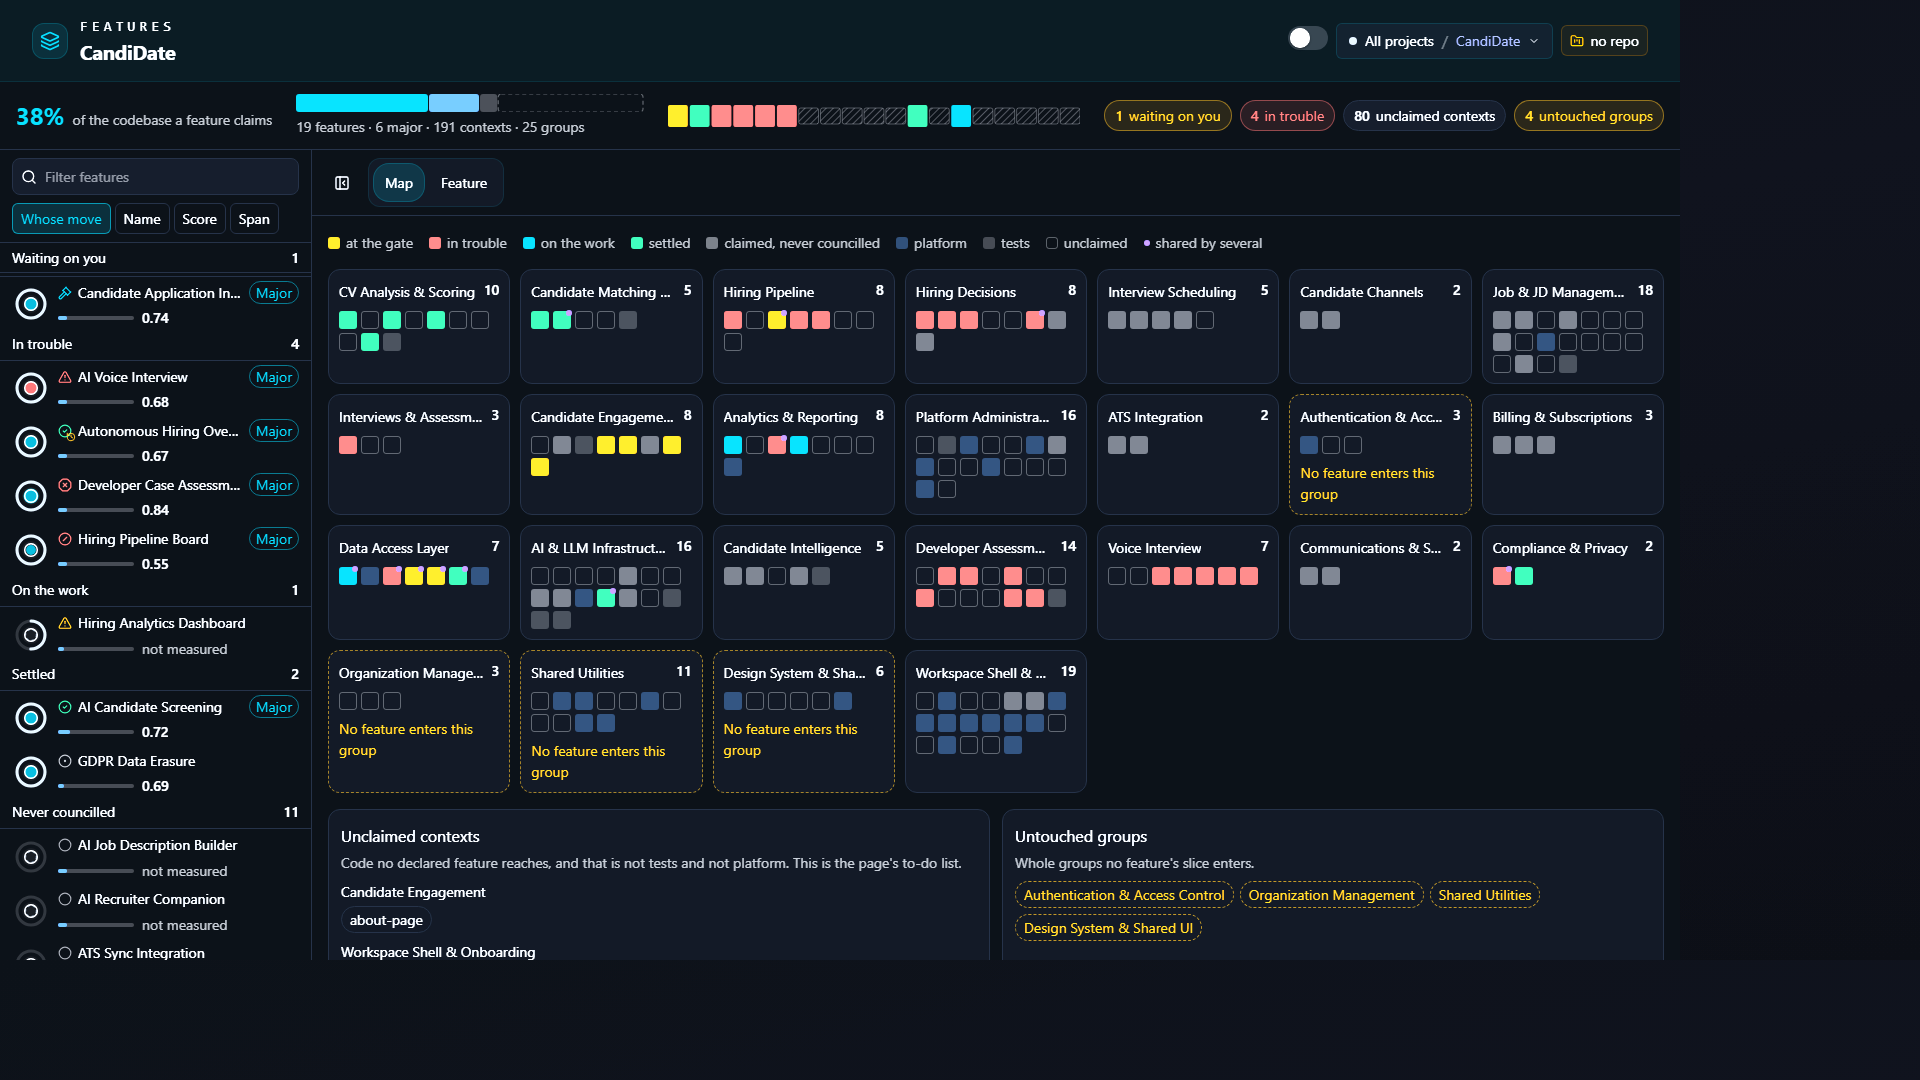
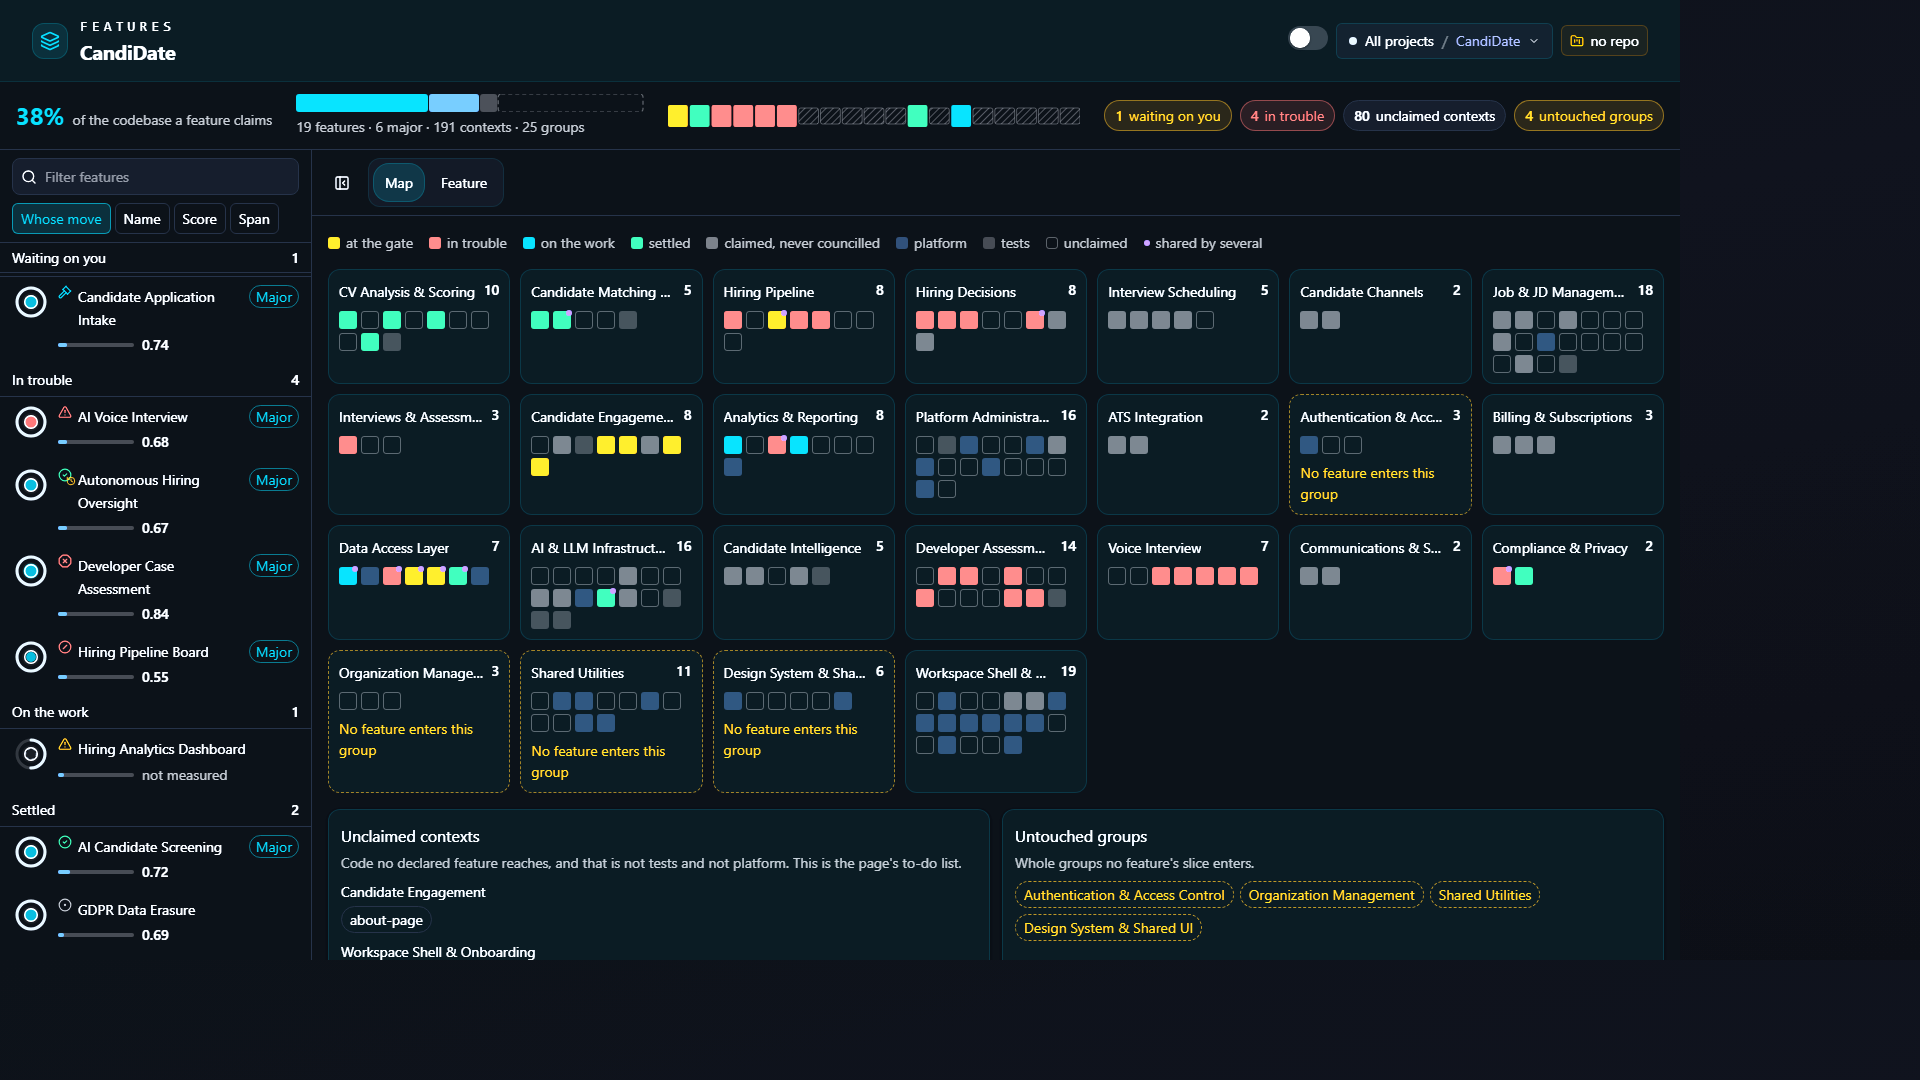
fix(features): the rating panel is one band of figures, and a row name gets two lines
Director review, both fixes, re-shot and looked at.

THE RATING PANEL was cramped because `size` on the rose is its WHOLE BOX and
it reserves ~26% of that on each side for the five wedge labels - so the
172px rose drew an 80px disc and 'Economics 0.71' floated around nothing.
It is now sized the way the round table sizes it (200-300, scaled to the
panel), which draws a disc of ~138px at 1040 wide and ~188px at 1680. The
overall lives in the rose's HUB, inside the ring that is the threshold, so
the number and the bar it is read against are one figure instead of two
things side by side; 'Overall against 0.70' sits under it. The coverage
ring is 72px - smaller than the rose, beside it - and the round history
beside that, elastic so the three stay on ONE band: at 1040 they overran
696px and the history wrapped to its own row, which is what made the panel
read as strewn numbers. Member bars with their floor ticks stay below.

THE HEADER is one row again: name, kind and state chip on the left, the
tier toggle and the ONE action on the right. It is `flex-nowrap` with only
the LEFT group allowed to wrap internally, so a long name never pushes the
action onto a second line - which is what it did at 1040.

THE COLUMN's names wrap to two lines before clipping (`line-clamp-2`), with
the tooltip still carrying the rare third. That makes rows variable-height,
so `measureElement` is wired back up.

AND THE BUG THAT CAME WITH IT, found by asserting rather than trusting: the
[…]

Changed region(s): [[0.0, 0.2444, 0.1562, 0.8861], [0.125, 0.4889, 0.1562, 0.55]]

diff --git a/src/features/teams/sub_features/feature/RatingPanel.tsx b/src/features/teams/sub_features/feature/RatingPanel.tsx
@@ -1,9 +1,10 @@
 // The rating, drawn: the rose, the overall against its bar, the coverage ring
 // and the rounds. Every figure is the Council page's own - one rose in the app,
 // not two.
-import { useMemo } from 'react';
+import { useMemo, useRef } from 'react';
 
 import { Numeric } from '@/features/shared/components/display/Numeric';
+import { useElementSize } from '@/features/teams/sub_council/table/useElementSize';
 import { CoverageRing } from '@/features/teams/sub_council/table/svg/CoverageRing';
 import { RoundHistory, type RoundPoint } from '@/features/teams/sub_council/table/svg/RoundHistory';
 import { Rose } from '@/features/teams/sub_council/table/svg/Rose';
@@ -50,6 +51,8 @@ function toSeat(v: BoardFeature['verdicts'][number]): Seat {
 }
 
 export function RatingPanel({ feature, t, tx, language }: RatingPanelProps) {
+  const panelRef = useRef<HTMLDivElement>(null);
+  const { width } = useElementSize(panelRef);
   const council = feature.council;
   const seats = useMemo(() => feature.verdicts.map(toSeat), [feature.verdicts]);
   const points: RoundPoint[] = feature.history.map((h) => ({
@@ -60,49 +63,75 @@ export function RatingPanel({ feature, t, tx, language }: RatingPanelProps) {
   const overall = council?.overall ?? null;
   const coverage = council?.coverage ?? null;
   const thresholdText = formatNumeric(FEATURE_THRESHOLD, 'plain', { language, precision: 2 });
+  const coverageFloorText = formatNumeric(FEATURE_COVERAGE_FLOOR, 'ratio', { language, precision: 0 });
+
+  /* `size` is the rose's WHOLE BOX, and it reserves ~26% of it on each side
+     for the five wedge labels - so a 172px rose draws a 80px disc and the
+     labels float around nothing, which is what the first build shipped. The
+     round table sizes it 150-300 for the same reason; this panel is wider, so
+     it starts higher and still gives way rather than overflowing. */
+  const roseSize = width === 0 ? 250 : Math.max(200, Math.min(300, Math.round(width * 0.36)));
+  /* The three figures are ONE band or they are strewn: at 1040 the rose, the
+     coverage ring and the rounds together overran 696px and the history
+     wrapped to its own row, which is what made the panel read as loose
+     numbers. The history is the elastic one, so it gives way. */
+  const historyWidth = width === 0 ? 236 : Math.max(170, Math.min(236, width - roseSize - 220));
 
   return (
-    <section className="rounded-card border border-border bg-secondary/30 p-4" data-testid="features-rating">
-      <div className="flex flex-wrap items-start gap-6">
-        <div className="flex items-baseline gap-2">
-          <span className="typo-data-lg text-foreground" data-testid="features-overall">
-            {overall == null ? t.not_measured : <Numeric value={overall} precision={2} />}
-          </span>
-          <span className="typo-caption">{tx(t.threshold_label, { threshold: thresholdText })}</span>
-        </div>
-
+    <section className="rounded-card border border-primary/15 bg-primary/5 shadow-elevation-1 p-4" data-testid="features-rating">
+      <div ref={panelRef} className="flex flex-wrap items-center gap-x-6 gap-y-6">
         {seats.length > 0 ? (
-          <Rose
-            seats={seats}
-            threshold={FEATURE_THRESHOLD}
-            overall={overall}
-            size={172}
-            label={t.rose_label}
-            notMeasuredLabel={t.not_measured}
-            noOverallLabel={t.no_overall}
-            overallLabel={t.rose_overall}
-          />
-        ) : null}
+          /* The overall lives in the rose's hub, against the ring that IS the
+             threshold - so the number and the bar it is read against are one
+             figure rather than two things side by side. */
+          <div className="flex flex-col items-center gap-1">
+            <Rose
+              seats={seats}
+              threshold={FEATURE_THRESHOLD}
+              overall={overall}
+              size={roseSize}
+              label={t.rose_label}
+              notMeasuredLabel={t.not_measured}
+              noOverallLabel={t.no_overall}
+              overallLabel={t.rose_overall}
+            />
+            <p className="m-0 typo-caption" data-testid="features-overall">
+              {t.overall_label} {tx(t.threshold_label, { threshold: thresholdText })}
+            </p>
+          </div>
+        ) : (
+          <div className="flex items-baseline gap-2">
+            <span className="typo-data-lg text-foreground" data-testid="features-overall">
+              {overall == null ? t.not_measured : <Numeric value={overall} precision={2} />}
+            </span>
+            <span className="typo-caption">{tx(t.threshold_label, { threshold: thresholdText })}</span>
+          </div>
+        )}
 
         {coverage != null ? (
-          <div className="flex flex-col items-center gap-1">
+          <div className="flex items-center gap-2.5">
             <CoverageRing
               coverage={coverage}
               floor={FEATURE_COVERAGE_FLOOR}
+              size={72}
               label={tx(t.coverage_figure_label, {
                 value: formatNumeric(coverage, 'ratio', { language, precision: 0 }),
-                floor: formatNumeric(FEATURE_COVERAGE_FLOOR, 'ratio', { language, precision: 0 }),
+                floor: coverageFloorText,
               })}
               text={formatNumeric(coverage, 'ratio', { language, precision: 0 })}
             />
-            <span className="typo-caption">{t.coverage_label}</span>
+            <span className="typo-caption">
+              <b className="block typo-heading text-foreground">{t.coverage_label}</b>
+              {tx(t.threshold_label, { threshold: coverageFloorText })}
+            </span>
           </div>
         ) : null}
 
         {points.length > 0 ? (
-          <div className="flex flex-col items-center gap-1">
+          <div className="flex flex-col items-start gap-1">
             <RoundHistory
               points={points}
+              width={historyWidth}
               threshold={FEATURE_THRESHOLD}
               currentRound={council?.roundNo ?? points.length}
               label={t.rounds_label}

diff --git a/src/features/teams/sub_features/column/FeatureColumn.tsx b/src/features/teams/sub_features/column/FeatureColumn.tsx
@@ -5,7 +5,7 @@
 // so a hundred real DOM rows would be paid for on every one of those renders.
 // Group headings are items in the same flat list and one of them is pinned via
 // the range extractor, which is how a sticky heading survives virtualisation.
-import { useCallback, useEffect, useMemo, useRef } from 'react';
+import { useCallback, useMemo, useRef } from 'react';
 import { useVirtualizer } from '@tanstack/react-virtual';
 import { Search } from 'lucide-react';
 
@@ -18,10 +18,11 @@ import { FEATURE_MOVES, sortRows, type FeatureMove, type FeatureRow, type Featur
 import { moveLabel, type TFeatures } from '../featuresModel';
 import { FeatureRowItem } from './FeatureRowItem';
 
-// Both item kinds are a FIXED height, which is why `measureElement` is not
-// wired up: dynamic measurement would put a ResizeObserver on every mounted
-// row and re-measure the list on every scroll frame, for an answer the
-// stylesheet already fixes. Change either constant if the row's geometry moves.
+// A row is one line of identity over one line of figures, but the NAME wraps
+// to two lines when it needs to, so a row is 54px or 77px and the virtualiser
+// has to measure rather than assume. These are the estimates it starts from;
+// `measureElement` corrects each mounted row, and `getItemKey` keys that
+// correction to the ITEM so a re-sort cannot hand a row a heading's height.
 const ROW_HEIGHT = 54;
 const HEADING_HEIGHT = 30;
 
@@ -94,30 +95,26 @@ export function FeatureColumn({
     },
   });
 
-  // The key change alone does not re-measure what is already cached under a key
-  // that survived; re-measuring when the item list changes identity does.
-  useEffect(() => { virtualizer.measure(); }, [items, virtualizer]);
 
   const virtualItems = virtualizer.getVirtualItems();
-  /* The band a reader is standing IN, derived from the scroll offset rather
-     than mutated inside the range extractor. An earlier version pinned the
-     heading by rendering that one virtual item `position: sticky` - which puts
-     it back in normal flow, so the item it was supposed to occupy lost its
-     slot and two rows drew on top of each other. The heading is now an OVERLAY
-     outside the virtual list, and every virtual item stays absolute. */
+  /* The band a reader is standing IN, read off the virtualiser's own MEASURED
+     offsets rather than from assumed heights (rows are not all the same height
+     any more) and rather than from a ref mutated inside the range extractor.
+     An earlier version pinned the heading by rendering that one virtual item
+     `position: sticky` - which puts it back in normal flow, so the item it was
+     supposed to occupy lost its slot and two rows drew on top of each other.
+     The heading is now an OVERLAY outside the list; every item stays absolute. */
   const offset = virtualizer.scrollOffset ?? 0;
   const standingIn = useMemo(() => {
     if (sort !== 'move') return null;
-    let seen: Extract<Item, { kind: 'heading' }> | null = null;
-    let y = 0;
-    for (const item of items) {
-      const h = item.kind === 'heading' ? HEADING_HEIGHT : ROW_HEIGHT;
-      if (item.kind === 'heading' && y <= offset + 1) seen = item;
-      y += h;
-      if (y > offset + 1 && seen) break;
+    const first = virtualItems.find((v) => v.end > offset + 1) ?? virtualItems[0];
+    if (!first) return null;
+    for (let i = first.index; i >= 0; i -= 1) {
+      const item = items[i];
+      if (item?.kind === 'heading') return item;
     }
-    return seen;
-  }, [items, offset, sort]);
+    return null;
+  }, [items, virtualItems, offset, sort]);
 
   const move = useCallback(
     (delta: number) => {
@@ -215,6 +212,7 @@ export function FeatureColumn({
               return (
                 <div
                   key={v.key}
+                  ref={virtualizer.measureElement}
                   data-index={v.index}
                   style={{ position: 'absolute', top: 0, left: 0, width: '100%', transform: `translateY(${v.start}px)` }}
                 >

diff --git a/src/features/teams/sub_features/feature/FeatureTab.tsx b/src/features/teams/sub_features/feature/FeatureTab.tsx
@@ -57,22 +57,20 @@ export function FeatureTab({
 
   return (
     <div className="flex flex-col gap-4 p-4" data-testid="features-feature-tab">
-      <header className="flex flex-wrap items-start justify-between gap-4">
-        <div className="min-w-0">
+      {/* ONE row: who it is on the left, what you can do about it on the
+          right. The description sits under it rather than between them, so the
+          tier toggle and the one action never drift apart down the panel. */}
+      <header className="flex flex-nowrap items-start justify-between gap-4">
+        <div className="flex min-w-0 flex-wrap items-center gap-x-3 gap-y-1">
           <h2 className="typo-heading-lg text-foreground">{feature.name}</h2>
-          <div className="mt-1 flex flex-wrap items-center gap-x-3 gap-y-1">
-            <span className="typo-caption">{kindLabel(feature.kind, t)}</span>
-            <span className="inline-flex items-center gap-1.5 typo-caption text-foreground">
-              <CouncilGlyph kind={row.kind} t={tDev} />
-              {councilLabel(row.kind, tDev)}
-            </span>
-          </div>
-          {feature.description ? (
-            <p className="mt-2 max-w-prose typo-body-lg">{feature.description}</p>
-          ) : null}
+          <span className="typo-caption">{kindLabel(feature.kind, t)}</span>
+          <span className="inline-flex items-center gap-1.5 rounded-pill border border-border px-2 py-0.5 typo-caption text-foreground">
+            <CouncilGlyph kind={row.kind} t={tDev} />
+            {councilLabel(row.kind, tDev)}
+          </span>
         </div>
 
-        <div className="flex flex-col items-end gap-2">
+        <div className="flex flex-none items-center gap-3 pt-0.5">
           <Tooltip content={t.tier_toggle_hint}>
             <span>
               <AccessibleToggle
@@ -84,16 +82,13 @@ export function FeatureTab({
           </Tooltip>
 
           {cta === 'open_decision' && subjectId ? (
-            <div className="flex flex-col items-end gap-1">
-              <AsyncButton
-                variant="primary"
-                data-testid="features-open-decision"
-                onClick={() => onOpenDecision(subjectId)}
-              >
-                {t.cta_open_decision}
-              </AsyncButton>
-              <span className="typo-caption">{t.cta_decision_note}</span>
-            </div>
+            <AsyncButton
+              variant="primary"
+              data-testid="features-open-decision"
+              onClick={() => onOpenDecision(subjectId)}
+            >
+              {t.cta_open_decision}
+            </AsyncButton>
           ) : null}
           {cta === 'run' || cta === 'next_round' ? (
             <AsyncButton
@@ -111,6 +106,13 @@ export function FeatureTab({
           ) : null}
         </div>
       </header>
+
+      {feature.description ? (
+        <p className="-mt-1 max-w-prose typo-body-lg">{feature.description}</p>
+      ) : null}
+      {cta === 'open_decision' ? (
+        <p className="-mt-3 typo-caption">{t.cta_decision_note}</p>
+      ) : null}
 
       <RatingPanel feature={feature} t={t} tx={tx} language={language} />
 

diff --git a/src/features/teams/sub_features/column/FeatureRowItem.tsx b/src/features/teams/sub_features/column/FeatureRowItem.tsx
@@ -50,7 +50,7 @@ export function FeatureRowItem({
       data-feature-slug={feature.slug}
       onClick={() => onSelect(feature.id)}
       onDoubleClick={() => onOpen(feature.id)}
-      className={`flex w-full items-center gap-2.5 border-l-2 px-3 py-2 text-left focus-ring ${
+      className={`flex w-full items-start gap-2.5 border-l-2 px-3 py-2 text-left focus-ring ${
         selected
           ? 'border-l-primary bg-primary/10'
           : 'border-l-transparent hover:bg-secondary/50'
@@ -65,10 +65,15 @@ export function FeatureRowItem({
         label={tx(t.row_label, { name: feature.name, state: stateName })}
       />
       <span className="min-w-0 flex-1">
-        <span className="flex items-center gap-1.5">
+        <span className="flex items-start gap-1.5">
           <CouncilGlyph kind={row.kind} t={tDev} />
+          {/* At ~300px the row has room for two lines, and a truncated name
+              is the one thing a reader cannot recover from a glance. It wraps
+              to two and only then clips; the tooltip carries the rare third. */}
           <Tooltip content={feature.name}>
-            <span className="min-w-0 flex-1 truncate typo-body text-foreground">{feature.name}</span>
+            <span className="line-clamp-2 min-w-0 flex-1 break-words typo-body text-foreground">
+              {feature.name}
+            </span>
           </Tooltip>
           {feature.tier === 'major' ? (
             <Tooltip content={t.tier_major}>

diff --git a/src/features/teams/sub_features/FeaturesPage.tsx b/src/features/teams/sub_features/FeaturesPage.tsx
@@ -244,7 +244,7 @@ export default function FeaturesPage() {
           ) : loading && !board ? (
             /* A calm ghost UNDER the chrome, never a spinner for a surface. */
             <div className="flex-1 p-4" aria-hidden="true" data-testid="features-ghost">
-              <div className="h-full rounded-card border border-border bg-secondary/30 bg-secondary/25" />
+              <div className="h-full rounded-card border border-primary/15 bg-primary/5 shadow-elevation-1 bg-secondary/25" />
             </div>
           ) : board?.neverScanned ? (
             <div className="flex flex-1 items-center justify-center p-6">

diff --git a/src/features/teams/sub_features/feature/HistoryPanel.tsx b/src/features/teams/sub_features/feature/HistoryPanel.tsx
@@ -15,7 +15,7 @@ export interface HistoryPanelProps {
 export function HistoryPanel({ feature, t, tx }: HistoryPanelProps) {
   const council = feature.council;
   return (
-    <section className="rounded-card border border-border bg-secondary/30 p-4" data-testid="features-history">
+    <section className="rounded-card border border-primary/15 bg-primary/5 shadow-elevation-1 p-4" data-testid="features-history">
       <h3 className="typo-body-lg text-foreground">{t.history_title}</h3>
       {feature.history.length === 0 ? (
         <p className="mt-1 typo-caption">{t.history_none}</p>

diff --git a/src/features/teams/sub_features/scenarios/ScenarioCell.tsx b/src/features/teams/sub_features/scenarios/ScenarioCell.tsx
@@ -46,7 +46,7 @@ export function ScenarioCell({ scenario, onEdit, onDelete, t, tx, language }: Sc
     <article
       data-testid="features-scenario-cell"
       data-scenario-scope={scenario.scope}
-      className="flex flex-col gap-2 rounded-card border border-border bg-secondary/30 p-3"
+      className="flex flex-col gap-2 rounded-card border border-primary/15 bg-primary/5 shadow-elevation-1 p-3"
     >
       <div className="flex items-start justify-between gap-2">
         <h4 className="min-w-0 typo-body text-foreground">{scenario.title}</h4>

diff --git a/src/features/teams/sub_features/scenarios/ScenariosPanel.tsx b/src/features/teams/sub_features/scenarios/ScenariosPanel.tsx
@@ -49,7 +49,7 @@ export function ScenariosPanel({
   const worst = worstInScope(feature.scenarios);
 
   return (
-    <section className="rounded-card border border-border bg-secondary/30 p-4" data-testid="features-scenarios">
+    <section className="rounded-card border border-primary/15 bg-primary/5 shadow-elevation-1 p-4" data-testid="features-scenarios">
       <div className="flex flex-wrap items-start justify-between gap-3">
         <div>
           <h3 className="typo-body-lg text-foreground">{t.scenarios_title}</h3>

diff --git a/src/features/teams/sub_features/map/ActionLists.tsx b/src/features/teams/sub_features/map/ActionLists.tsx
@@ -21,7 +21,7 @@ export interface ActionListsProps {
 
 function Panel({ title, subtitle, children }: { title: string; subtitle: string; children: React.ReactNode }) {
   return (
-    <section className="rounded-card border border-border bg-secondary/30 p-3">
+    <section className="rounded-card border border-primary/15 bg-primary/5 shadow-elevation-1 p-3">
       <h3 className="typo-body-lg text-foreground">{title}</h3>
       <p className="mt-0.5 typo-caption">{subtitle}</p>
       <div className="mt-2">{children}</div>

diff --git a/src/features/teams/sub_features/map/GroupPlot.tsx b/src/features/teams/sub_features/map/GroupPlot.tsx
@@ -117,8 +117,8 @@ export function GroupPlotCard({
   return (
     <section
       data-testid="features-map-plot"
-      className={`rounded-card border bg-secondary/30 p-2.5 ${
-        plot.group.untouched ? 'border-dashed border-status-warning/50' : 'border-border'
+      className={`rounded-card border bg-primary/5 p-2.5 ${
+        plot.group.untouched ? 'border-dashed border-status-warning/50' : 'border-primary/15'
       }`}
     >
       <header className="mb-2 flex items-start justify-between gap-2">

diff --git a/src/features/teams/sub_features/feature/SlicePanel.tsx b/src/features/teams/sub_features/feature/SlicePanel.tsx
@@ -30,7 +30,7 @@ export function SlicePanel({
   }
 
   return (
-    <section className="rounded-card border border-border bg-secondary/30 p-4" data-testid="features-slice">
+    <section className="rounded-card border border-primary/15 bg-primary/5 shadow-elevation-1 p-4" data-testid="features-slice">
       <div className="flex items-start justify-between gap-3">
         <div>
           <h3 className="typo-body-lg text-foreground">{t.slice_title}</h3>
